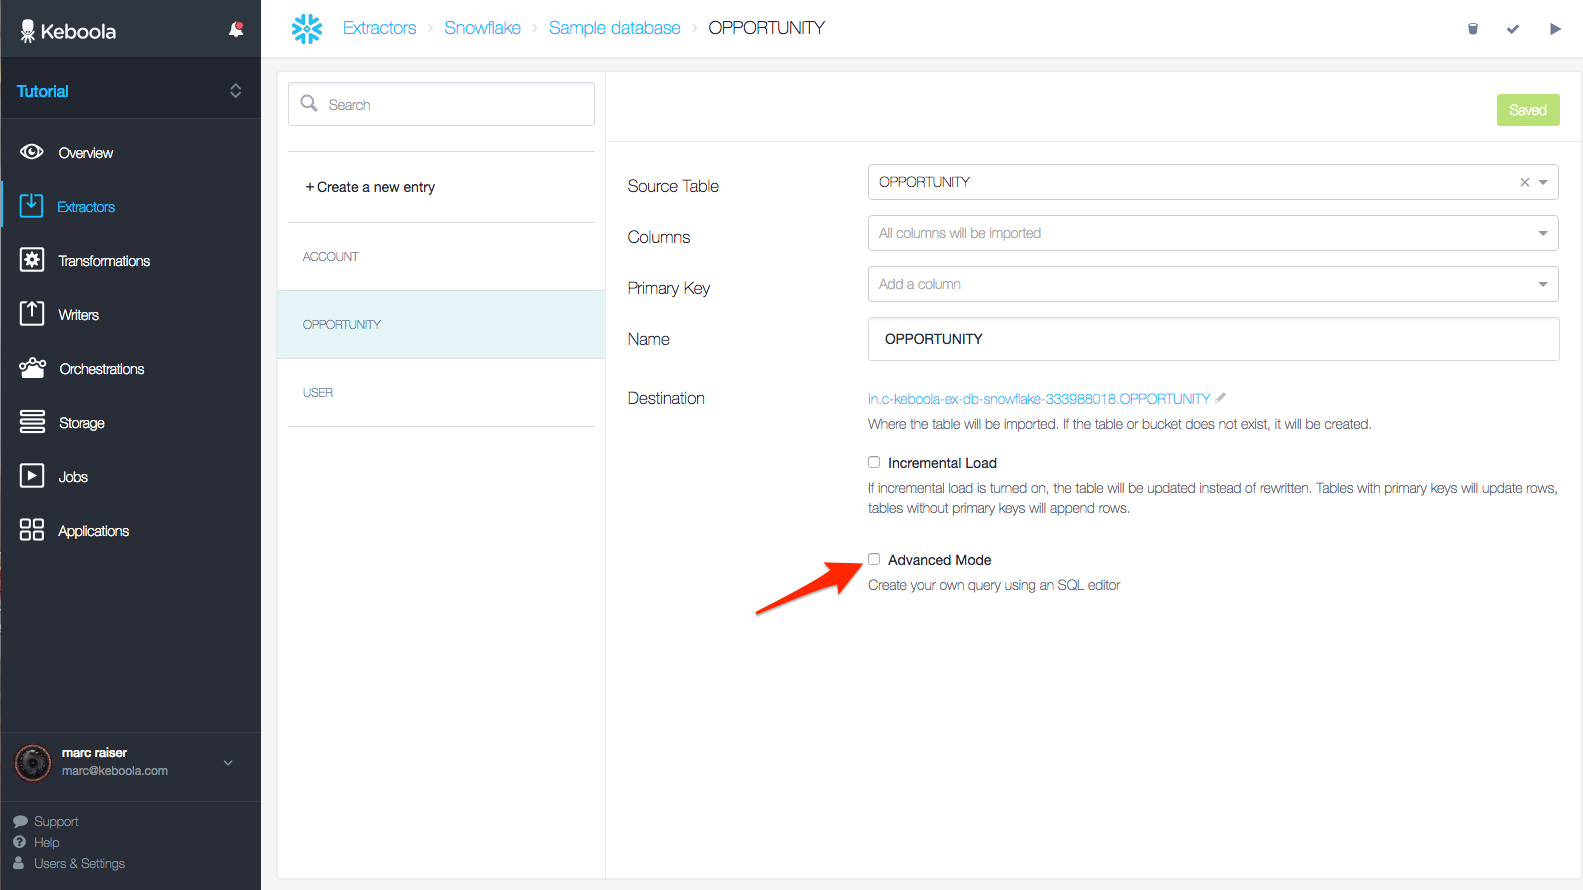
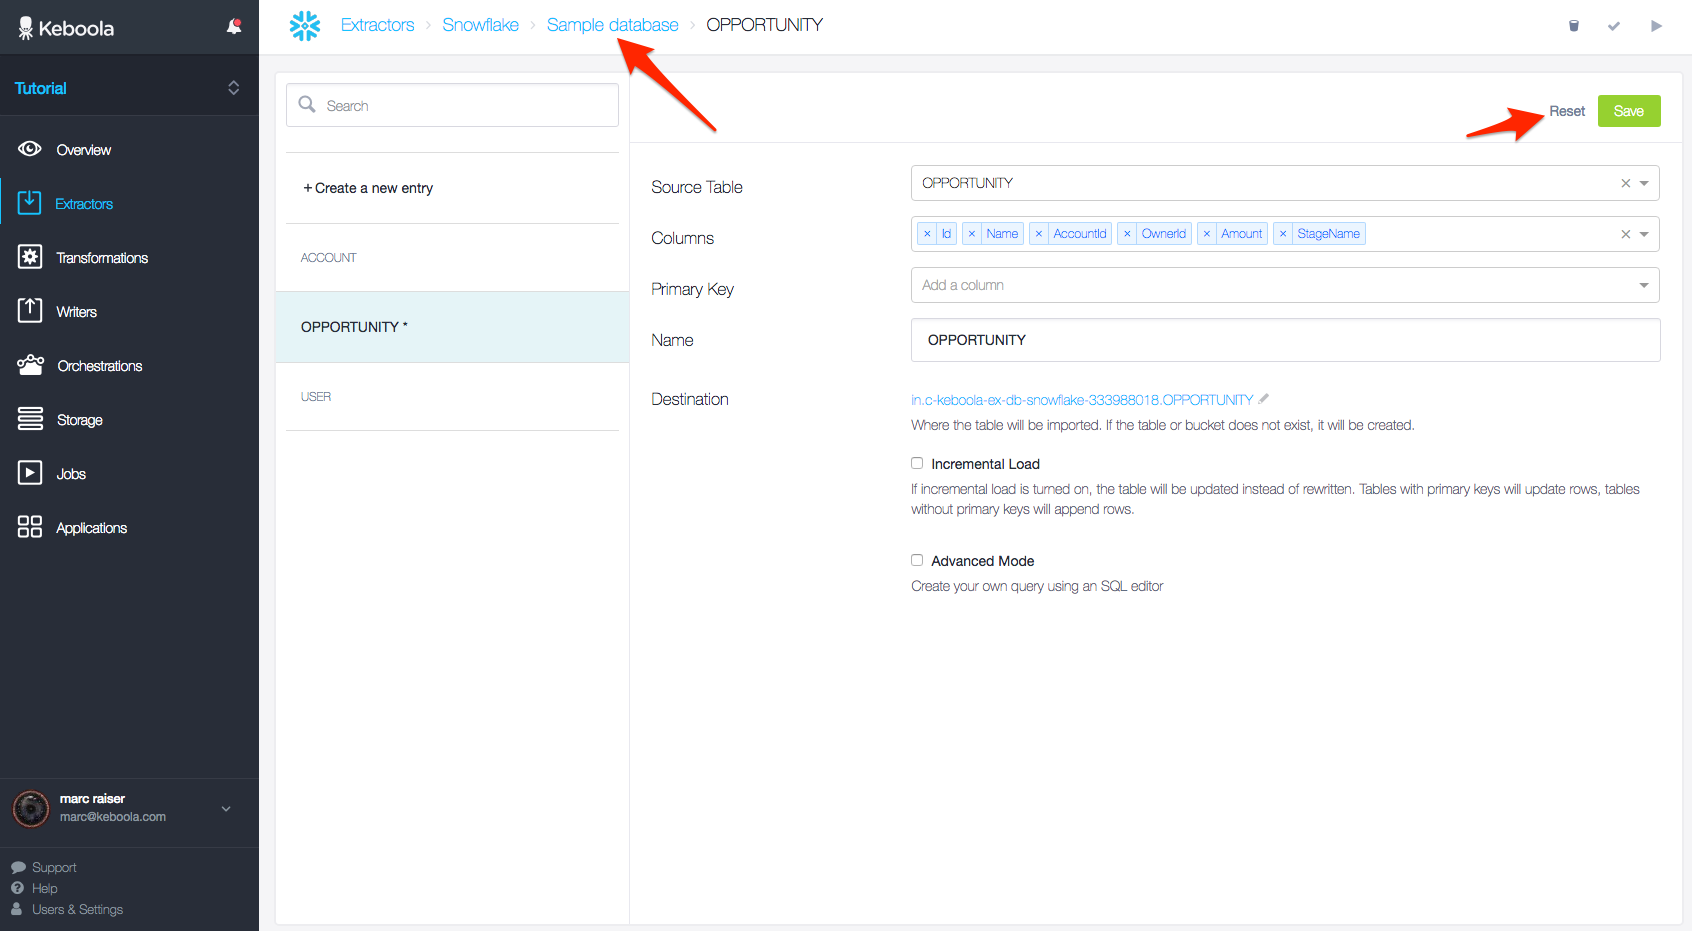
remove advanced mode from tutorial

diff --git a/tutorial/load/database.md b/tutorial/load/database.md
@@ -62,17 +62,10 @@ You will get the following configurations.  You can edit any of these entries by
 
 Here you can select which columns to import or define a primary key 
 (Note: primary keys will appear automatically if they are set in the source database). 
-If you'd like to write your own query, you can do so by using the `Advanced Mode`.
+For now let's press `reset` to reset any changes you made, and then click on the breadcrumb to return to the main page.
 
 {: .image-popup}
 ![Screenshot - Query Edit Form](/tutorial/load/extractor-db-detail.png)
-
-In `Advanced Mode` you can write out a custom query of your choice.  
-Please do keep in mind some [best practices](/extractors/database/sqldb/#advancedMode) when defining your own queries.
-For now let's press `reset` to reset any changes you made, and then click on the breadcrumb to return to the main page. 
-
-{: .image-popup}
-![Screenshot - Advanced Mode](/tutorial/load/extractor-db-advancedMode.png)
 
 Now let's click on **Run Extraction** to load the data
 from the database into your tables in Storage.

diff --git a/extractors/database/sql_db.md b/extractors/database/sql_db.md
@@ -12,7 +12,12 @@ select which tables you want to import to KBC Storage.
 
 ### Advanced mode
 If you'd prefer to write your own query to extract data to KBC storage, use the advanced mode checkbox.
-Please keep the following in mind when using advanced mode:
+Please keep the following in mind when using advanced mode: 
+
+{: .image-popup}
+![Screenshot - Advanced Mode](/extractors/database/advancedMode.png)
+
+#### Advanced Mode Best Practices
 
 - Use as **simple queries** as possible. Avoid doing complex joins and aggregations.
 Keep in mind that these queries are executed on the database server you are extracting from.
